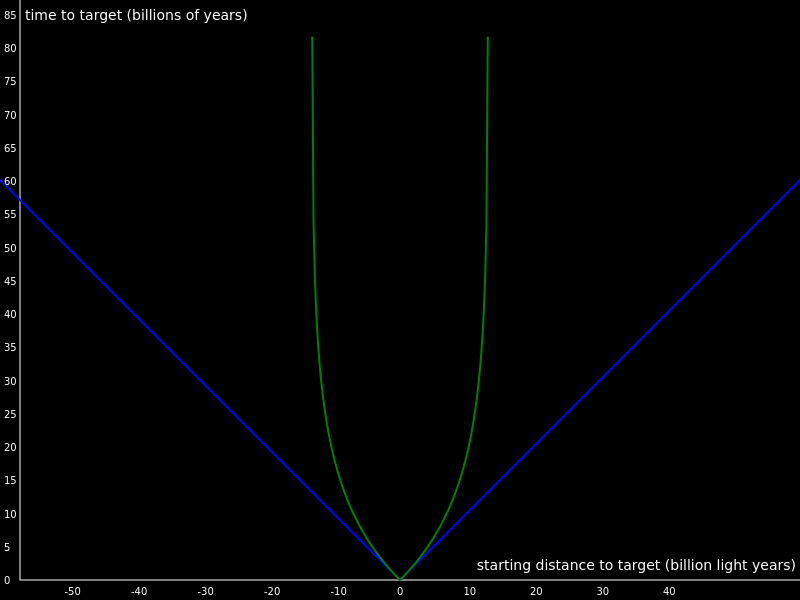
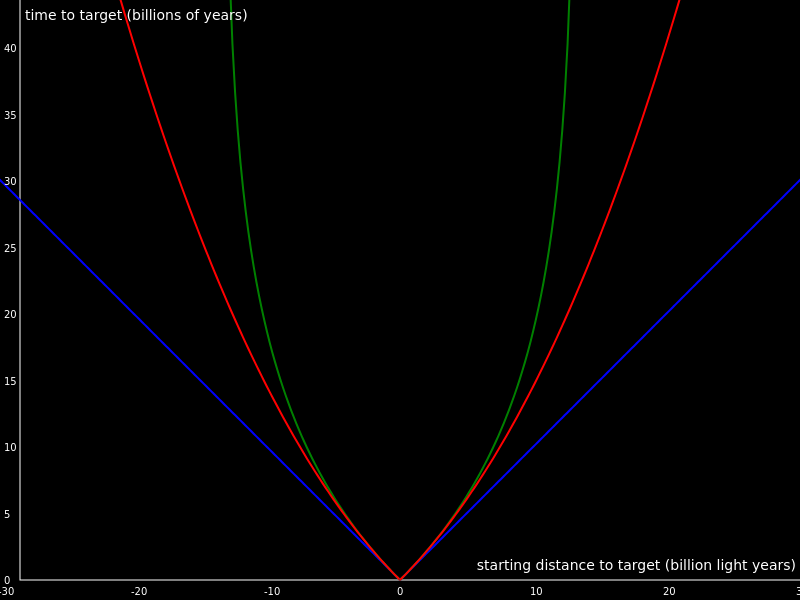
lightcones

diff --git a/index.htm b/index.htm
@@ -158,16 +158,18 @@
             <li>The energy of a photon absorbed by matter is emitted as a new photon with D=0, and therefore v=c and an elongated wavelength.</li>
         </ol>
 
-        <p>Taken on their own, each phenomenon would constitute a violation of the conservation of momentum. First losing momentum when the photon redshifts.
+        <!--<p>Taken on their own, each phenomenon would constitute a violation of the conservation of momentum. First losing momentum when the photon redshifts.
             Second, gaining momentum when the photon is absorbed and re-emitted. Together, however, the momentum lost during redshifting is recovered when 
             the photon is absorbed and re-emitted to begin a new journey. 
+        </p>
+        -->
         
         <p>In this interpretation of the redshifts, the frequency decreases while the photon is in flight, and the wavelength increases at the beginning of a new photon's 
-            journey. This is different than the expanding theory where frequency and wavelength change together without changing the photon's velocity.</p>
+            journey. This is different than the expanding theory where frequency and wavelength change together without affecting the photon's velocity.</p>
 
         </p>
 
-        <p>This poses a number of conflicts with existing physics. These are discussed below.</p>
+        <p>This poses a number of conflicts with existing physics. These are discussed in a later section.</p>
 
         <p>It is important to keep in mind that interacting with a cosmologically redshifted photon will, according to the hypothesis, reset it's D to zero, causing it to 
             behave as a normal photon. With that in mind, several good tests for this hypothesis can be made where the redshifted light is 
@@ -517,14 +519,15 @@
             <p>Recall the graph of the time delays from the introduction. If that graph were to include a second photon headed in the opposite direction,
                 it would produce a reflected image, like this:</p>
             
-            <p class="pimg"><img src="img/lightcones3.png" width="500"></p>
+            <p class="pimg"><img src="img/lightcones.png" width="500">
+                <br>Lightcones in a simple univese (blue), models 1 & 2 (green), model 4 (red)
+            </p>
             
-            <p>The straight (blue) lines that make the traditional light cone represent special relativity.
-                The curved (green) lines that make the upside down bell shape represent Hubble's law, both as the expansion of space and as  
-                the decelerating photon hypothesis. 
-                The green shaded area represents the Hubble volume.</p> 
+            <p>The straight blue lines make the traditional light cone of special relativity.
+                The green lines represent both a simple expanding universe (v=H<sub>0</sub>D) and the linear decelerating photon hypothesis (v=c-HD). 
+                The red lines are the inverse square decelerating photon hypothesis, model 4 (v=c/(1+HD)<sup>2</sup>).</p> 
             
-            <p>To accommodate the observed redshifts, the light cone in relativity must be curved in a way that exactly matches 
+            <p>To accommodate the observed redshifts, the light cone in relativity must be curved in a way similar to  
                 the decelerating photon hypothesis.
             </p>
             
@@ -591,7 +594,7 @@
 
 
         <hr>
-        <h2>Conclusion</h2>
+        <h3>Conclusion</h3>
 
 
     <p>The decelerating photon hypothesis changes the physics of light at cosmological distances to accommodate the redshifts.
@@ -614,33 +617,31 @@
 
     <p>
         If dark energy is in the consideration as a possible fundamental ingredient of nature, 
-        then the actual observations that led to its conjecture, cosmological redshift, should be considered as well.</p>
+        then the observed phenomenon of cosmological redshift, the actual observations that lead to dark energy, should be considered as well.</p>
 
-<br>
+<hr>
 
+<h3>Peer-Reveiw</h3>
+
+<ul>
+<li>Leave a review by creating a <a href="https://github.com/mikehelland/hubbles-law/issues">GitHub Issue</a></li>
+<li>Email me <a href="mailto:mike@mikehelland.com">mike@mikehelland.com</a></li>
+</ul>
+<hr>
+
+<h3>See Also </h3>
+<ul>
+    <li><a href="test.htm">The Testing Page</a> - try your own hypotheses and values, more models and options</li>
+    <li><a href="https://github.com/mikehelland/hubbles-law/blob/master/test.htm">Source code for testing page on GitHub</a></li>
+    <li><a href="redshift.htm">Understanding Cosmological Redshift</a></li>
+    <li><a href="bigbang.htm">History and context of the Big Bang</a></li>
+</ul>
+
+<hr>
 <h3>Acknowledgements</h3>
 
 <p>Robert Marshall for suggesting the supernova warning test.</p>
 
-
-<hr>
-
-<p>Questions, comments, concerns?</p>
-<ul>
-    <li>Create a <a href="https://github.com/mikehelland/hubbles-law/issues">GitHub Issue</a> to leave peer review</li>
-    <li>Contact: <a href="mailto:mike@mikehelland.com">mike@mikehelland.com</a></li>
-</ul>
-
-<hr>
-
-<h2>More:</h2>
-
-<ul>
-    <li><a href="test.htm">The Testing Page</a> - try your own hypotheses and values, more models and options</li>
-    <li><a href="https://github.com/mikehelland/hubbles-law/blob/master/test.htm">Source code for the models</a> on GitHub.</li>
-    <li><a href="redshift.htm">Understanding Cosmological Redshift</a></li>
-    <li><a href="bigbang.htm">History and context of the Big Bang</a></li>
-</ul>
 
 <hr>
 

diff --git a/other/lightcones.htm b/other/lightcones.htm
@@ -489,6 +489,21 @@ var zs = [
         }
     })
 
+    setupModel({
+        div: document.getElementById("redshift1"),
+        name: "v<sub>light</sub> = c / (1 + H &times; D)<sup>2</sup>",
+        color: "red", 
+        H: 0.0756,
+        unitH: "ly/y/Mly",
+        photon: {x: 0, dx: c, f: 6e5, w: 500.6, f_start: 6e5},
+        //photon: {x: 0, dx: c, f: 1, w: 299792458, f_start: 1},
+        next: function () {
+            this.photon.dx = c / Math.pow(1 + this.H / 1000 * this.photon.x, 2)
+            this.photon.x += this.photon.dx //c - this.H / 1000 * this.photon.x
+            this.photon.f = (this.photon.dx * 299792458 / this.photon.w) 
+        }
+    })
+
 
     setInterval(() => {
         for (var m = 0; m < models.length; m++) {
